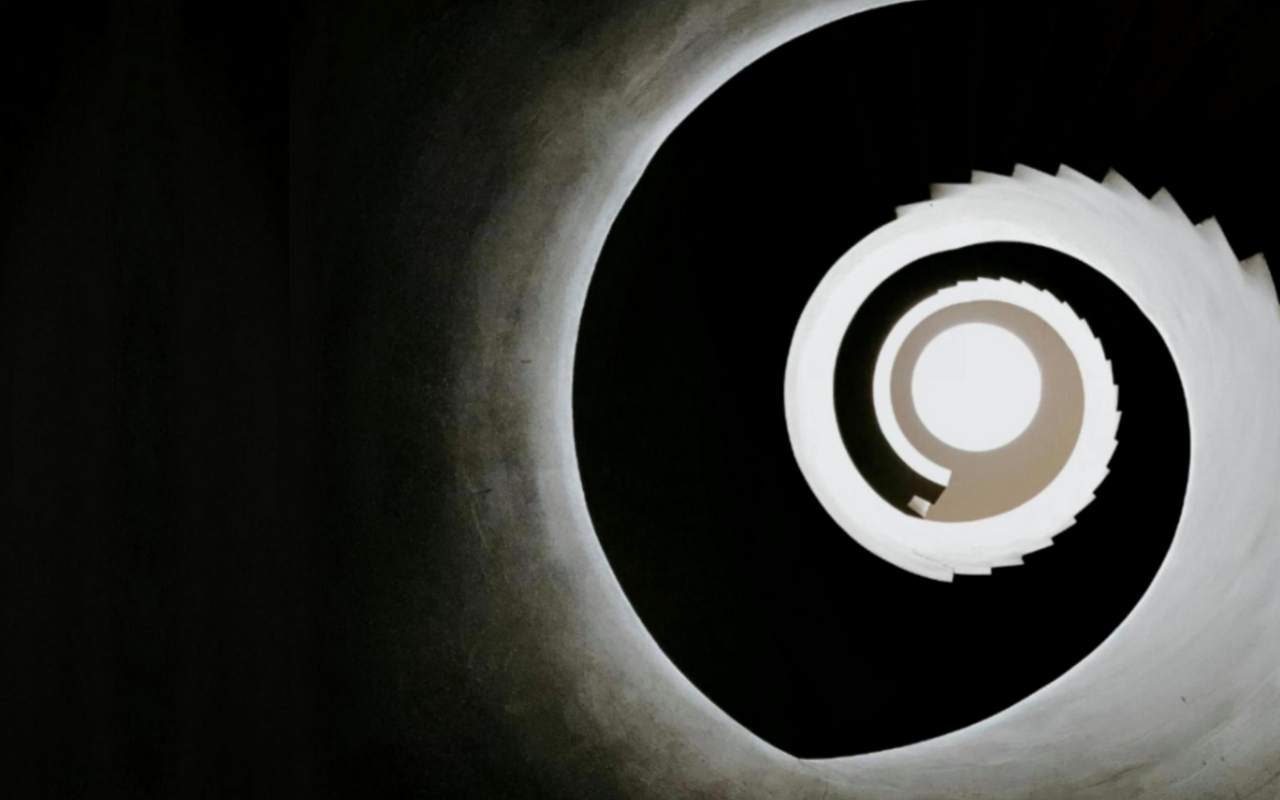
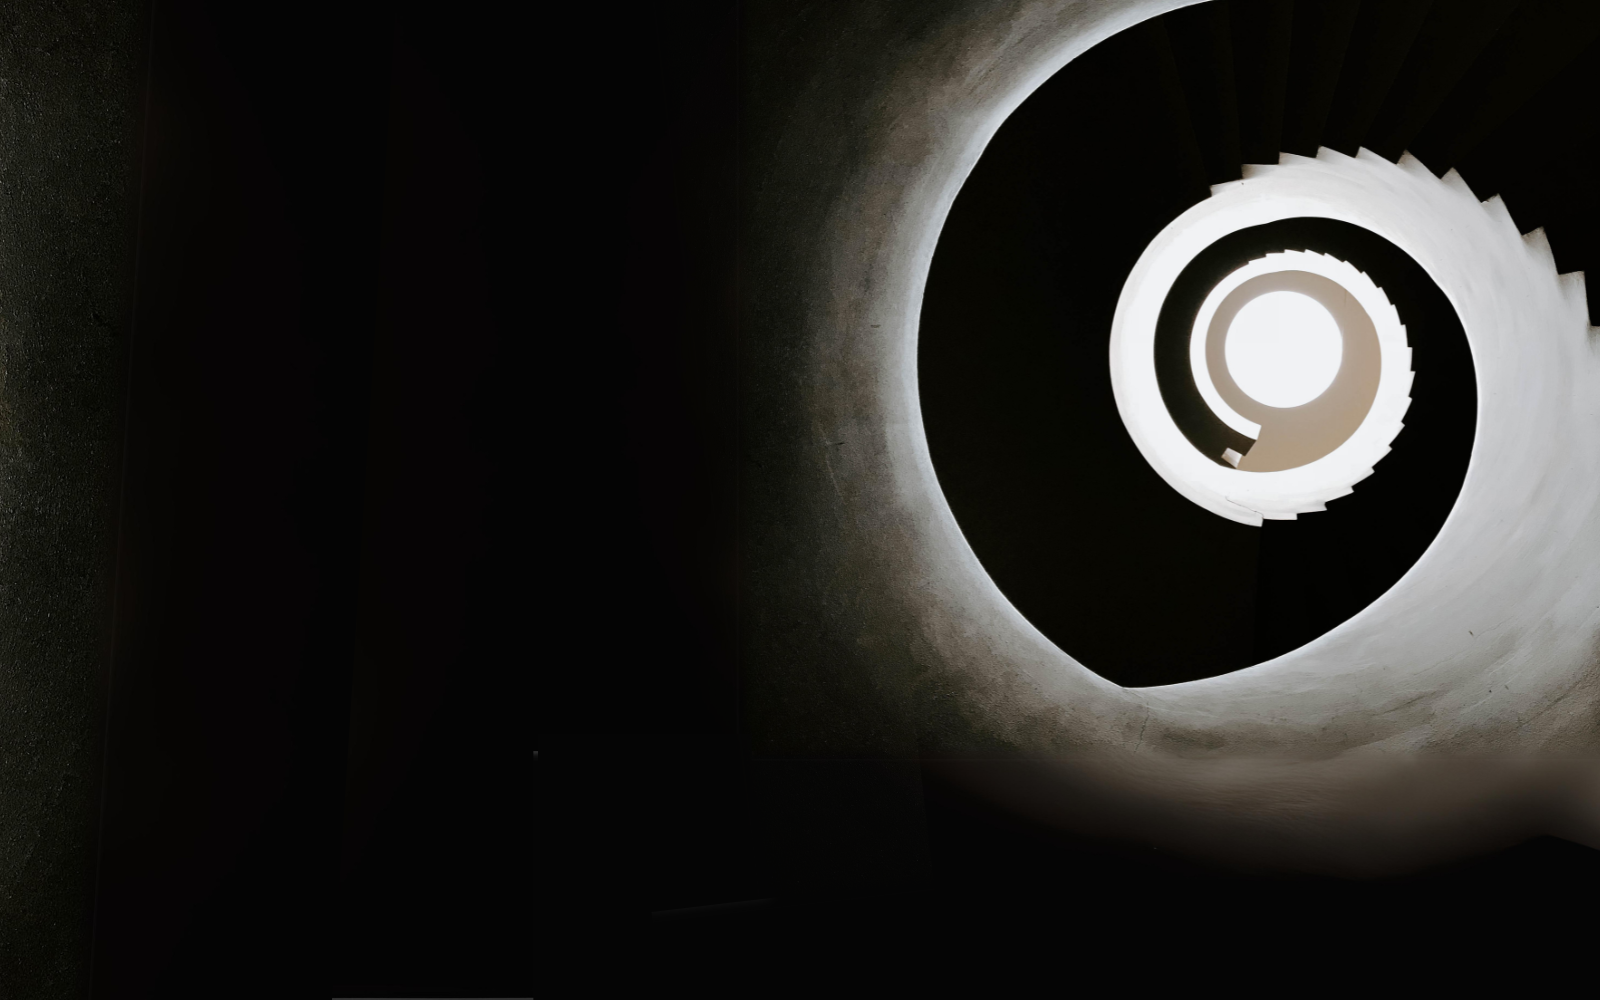
moving on to the sub

diff --git a/style.css b/style.css
@@ -45,37 +45,30 @@
   background-color: var(--dark-color);
   color: var(--light-color);
   font-family: 'DM Sans', 'Verdana', 'Arial', sans-serif;
-  --dark-color: #050505;
-  --grey-color: #131313;
+  --dark-color: #151515;
+  --grey-color: #1c1c1c;
   --light-color: #f2f2f2;
   --main-color-dark: #a49e12;
   --main-color-light: #d7dd65;
   --accent-color: hsl(335, 86%, 63%); 
-  --accent-color-light: hsl(335, 86%, 75%); 
+  --accent-color-light: hsl(337, 27%, 79%); 
   --accent-color-dark: hsl(335, 85%, 25%);
 
   }
 
 .container {
   max-width: 90vw;
-  height: 100%; 
-  margin: 0 auto;  
-  padding: 0 20px;
+  height: 100%;  
   display: flex;
   justify-content: space-between;
   align-items: center; 
+  padding: 0 20px;
 }
 
 @media (max-width: 768px) {
   .container {
       max-width: 90vw; 
   }
-}
-
-
-ul {
-  list-style: none;
-  padding: 0;
 }
 
 nav {
@@ -86,13 +79,15 @@ nav {
   width: 100%;
   background-color: var(--dark-color);
   border-bottom: 1px solid var(--main-color-light);
+  margin: 0;
+  padding: 0;
   
 }
 
 nav ul {
   display: flex; 
   list-style: none; 
-  gap: 20px;
+  gap: 10px;
   margin: 0; 
   padding: 0; 
 }
@@ -104,15 +99,19 @@ nav li {
 nav a {
     font-family: 'Source Sans 3', sans-serif;
     font-weight: 800;
+    font-size: 1.2rem;
     text-transform: lowercase;
-    color: var(--light-color)
+    text-decoration: none;
+    color: var(--light-color);
+    padding: 0;
+    margin: 0;
 }
 
 nav #logo img {
-  height: 40px;
+  height: 50px;
   width: auto;
-  display: block;
-  
+  display: flex;
+
 }
 
 body {
@@ -120,31 +119,32 @@ body {
   font-size: 16px;            
   line-height: 1.5;                          
   align-items: center;
+
 }
+ 
 
-
-h2 {
+main h2 {
+  margin-left: 10%;
   font-family: 'Source Sans 3', sans-serif;
   font-size: 2rem;
-  margin-bottom: 15px;
+  margin-bottom: 10px;
   text-transform: lowercase;
 }
 
-main {
-  background-color: ;
-  margin: 10%; /* Center the main content */
-  box-sizing: border-box; /* Ensure padding is included in the width */
+main p {
+  margin: 0 10%;
 }
 
-a {
+main a {
   padding-top: 20px;
-  font-family: 'Caveat', serif;
+  font-family: 'Caveat', sans-serif;
   color: var(--main-color-light);
   font-size: 1.1rem;
   font-weight: 700; 
   transition: font-size 0.3s ease;
   text-transform: uppercase; 
   text-decoration: none;
+  margin: 0 10%;
   
   }
   
@@ -165,45 +165,50 @@ hr {
   border: none;
   border-top: 3px solid var(--grey-color);
   background-color: transparent;
-  margin: 20px 0;
+  margin: 25px 0;
 }
 
 hr.short {
   width: 40px;
-  margin: 25px 0;
+  
 }
 
 
 #hero {
   display: flex;
   align-items: center; 
-  background-image: url('images/hero_image-1.png'); /* Set the image as the background */
-  background-size: cover; /* Make sure the image covers the entire container */
-  background-position: center; /* Center the image */
-  background-repeat: no-repeat; /* Prevent the image from repeating */
+  background-image: url('images/hero_image.png'); 
+  background-size: cover; 
+  background-position: center; 
+  background-repeat: no-repeat; 
   height: 100vh; 
-  text-align: left; /* Center text */
+  text-align: left; 
+  margin-bottom: 30px;
 }
 
 #hero .hero-text {
   margin: 10%;
-  max-width: 45%;
+  max-width: 30%;
 }
 
 #hero h1 {
-  font-family:'Source Sans 3';
+  font-family:'DM Sans';
   font-size: 4rem;
-  font-weight: 00;
-  text-transform:lowercase;
-  line-height: 1.2;
-  margin-left: 0 0 10px 0; 
+  font-weight: 800;
+  text-transform:uppercase;
+  line-height: 1; 
   
 }
 
+#hero p {
+  margin-top: 0;
+  padding-top: 0;
+}
 #hero ul {
   font-family: 'Source Sans 3';
   list-style-type: none; 
-  font-size: rem;
+  padding: 0;
+  
 }
 
 
@@ -225,7 +230,7 @@ hr.short {
   font-size: 2.5rem;
   font-weight: 600;
   line-height: 1.2;
-  margin-bottom: 10px;
+  padding: 30px 0px 40px 0px;
 }
 
 #stand-out p {
@@ -233,29 +238,34 @@ hr.short {
   color:  #d7dd65;
 }
 
-
+#about-preview {
+  margin-bottom: 30px;
+  margin-top: 30px;
+}
 #about-preview p {
-    font-size: 1rem;
-    margin-bottom: 20px;
+  font-size: 1rem;
+  margin-bottom: 30px;
+  margin-top: 10px;
 }
 
 #work-preview {
   display: flex;
   flex-direction: column; 
   gap: 20px; 
-  background-color: ;
+  padding: 20px 0 20px 0;
 }
 
+
 .work-item {
-  width: 100%; /* Take full available width */
-  background-color: var(--grey-color);
-  color: var(--light-color);
-  border: 1px solid var(--main-color-light);
+  width: 80%; /* Take full available width */
+  background-color: #abaaab;
+  color: var(--dark-color);
   border-radius: 5px;
   overflow: hidden;
   cursor: pointer;
   transition: transform 0.3s ease, box-shadow 0.3s ease;
   position: relative;
+  margin-left: 10%;
 }
 
 .work-item:hover {
@@ -275,7 +285,7 @@ hr.short {
 
 .work-header h3, .work-header p {
   margin: 0;
-  color: var(--light-color);
+  color: var(--dark-color);
 }
 
 .work-details {
@@ -313,9 +323,10 @@ footer {
 
 footer #stand-out{
   font-family: 'Source Sans 3', sans-serif;
-  font-size: 2rem;
-  margin-bottom: 15px;
-  text-transform: lowercase;
+  font-size: 4rem;
+  margin-bottom: -40px;
+  text-transform: uppercase;
+  color: var(--accent-color-light);
 }
 
 footer p {
@@ -335,9 +346,11 @@ footer p {
 }
 
 #contact-box a {
+  text-decoration: none;
   line-height: 3;
   font-family: 'Caveat';
-  color: #f2f2f2;
+  font-weight: 700;
+  color: var(--light-color);
   font-size: 1.5rem; 
   margin: 10vw; 
   transition: color 0.3s ease, background-color 0.3s ease; /* Smooth transition for hover effects */
@@ -350,7 +363,7 @@ footer p {
 
 #contact-box:hover{
   cursor: pointer;
-  background-color: #131313;
+  background-color: var(--grey-color);
 }
 
 #contact-box:hover a i {
@@ -362,7 +375,7 @@ footer p {
   justify-content: space-between;
   align-items: center; /* Vertically centers all items */
   flex-wrap: wrap; /* Allows wrapping for smaller screens */
-  padding: 20px 10vw;
+  padding: 20px 5vw;
 }
 
 .footer-content {
@@ -373,7 +386,7 @@ footer p {
 ul.contact-info {
   font-size: 0.8rem;
   line-height: 2;
-  margin-left: 0 0 10px 0; /* Adjust as necessary for spacing */
+ 
 }
 
 ul.socials {
@@ -391,7 +404,7 @@ ul.socials li a img {
 #footer-logo { /* Specific ID for logo image */
   height: 150px; /* Adjust logo size as needed */
   width: auto;
-  margin-right: -2vw;
+  padding-left: 20px;
 }
 
 @media (max-width: 768px) {

diff --git a/index.html b/index.html
@@ -13,6 +13,9 @@
     <title> Digital Design Portfolio</title>
     <link rel="stylesheet" href="style.css">
     <link rel="stylesheet" href="https://cdnjs.cloudflare.com/ajax/libs/font-awesome/5.15.4/css/all.min.css">
+    <link href="https://fonts.googleapis.com/css2?family=Nunito+Sans:wght@400;700;900&display=swap" rel="stylesheet">
+    <link href="https://fonts.googleapis.com/css2?family=Roboto:wght@400;700;900&display=swap" rel="stylesheet">
+    <link href="https://fonts.googleapis.com/css2?family=Montserrat:wght@400;700;900&display=swap" rel="stylesheet">
 </head>
 <body>
     <header>
@@ -29,15 +32,14 @@
     </header>
     <section id="hero">
         <div class="hero-text">
-            <h1>Digital Design <span style="font-size: 2rem;"><br>Porfolio.</span></h1>
+            <h1>Digital Design <span style="font-size: 2rem; text-transform: lowercase;"><br>Porfolio.</span></h1>
             <p>by <span style="font-weight: 800; font-size: larger;">Ina Kleinman</span></p>
             <hr class="short">
             <ul> 
-                <li>UX & UI Design</li>   
-                <li>Web Development</li>
-                <li>Digital Marketing</li>
+              <li>UX & UI Design</li>   
+              <li>Web Development</li>
+              <li>Digital Marketing</li>
             </ul>
-        </div>
         </div>
     </section>
     <main>
